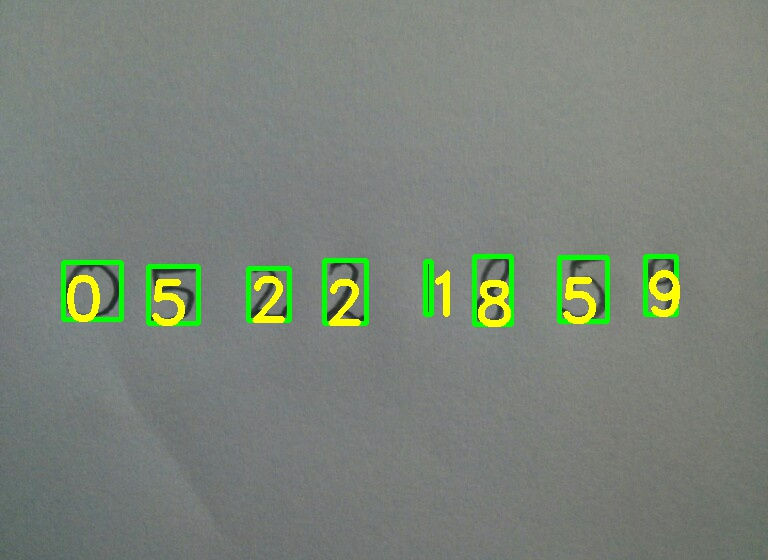
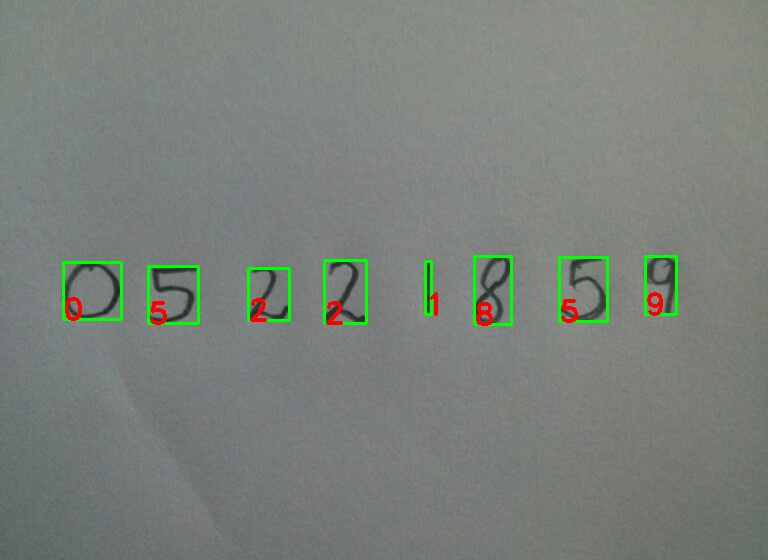
Further image processing

diff --git a/ImageProcessing/src/parsers.py b/ImageProcessing/src/parsers.py
@@ -30,6 +30,11 @@ class ImageParser(object):
 	def _getGrayscale(self):
 		""" Convert to grayscale and apply Gaussian filtering """
 		grayImage = cv2.cvtColor(self.__image, cv2.COLOR_BGR2GRAY)
+
+		""" 
+			Could also open and close image to fill holes 
+			and remove small noise pixels
+		"""
 		return cv2.GaussianBlur(
 					src 	= grayImage, 
 					ksize 	= (5, 5), 
@@ -40,7 +45,7 @@ class ImageParser(object):
 		"""
 		static threshold works better when there are small lines that get 'missed'
 		but really the adaptiveThreshold is better
-
+		"""
 		ret_, imageThreshold = cv2.threshold(
 								grayscaleImage, 
 								90, 
@@ -57,6 +62,7 @@ class ImageParser(object):
 					thresholdType 	= cv2.THRESH_BINARY_INV,
 					blockSize 		= 5,
 					C 				= 7)
+		"""
 
 	def _getContours(self, imageThreshold):
 		# Find contours in the image
@@ -71,7 +77,7 @@ class ImageParser(object):
 		roi_hog_fd = hog(
 						roi, 
 						orientations	= 9, 
-						pixels_per_cell	= (14, 14), 
+						pixels_per_cell	= (7, 7), 
 						cells_per_block	= (1, 1), 
 						visualise		= False)
 		roi_hog_fd = self.__pp.transform(
@@ -79,6 +85,7 @@ class ImageParser(object):
 
 		return self.__classifier.predict(roi_hog_fd)[0]
 
+	## region of interest
 	def _getROI(self, x, y, width, height, imageThreshold):
 		# Make the rectangular region around the digit
 		length 	= int(height * 1.6)

diff --git a/ImageProcessing/src/main.py b/ImageProcessing/src/main.py
@@ -15,13 +15,14 @@ from parsers import ImageParser
 
 def main(argv):
 	trainedDigitsFile = "digits_cls.pkl"
-	#imageName = "digits1.jpg"
+	imageName = "digits1.jpg"
 	#imageName = "digits_table_filled.png"
-	imageName = "digits2.jpg"
+	#imageName = "digits2.jpg"
+	
 	inputImagePath = os.path.join("images/raw/", imageName)
 	outputImagePath = os.path.join("images/labeled/", imageName)
 	
-	#train(trainedDigitsFile)
+	train(trainedDigitsFile)
 	print("Finished training data")
 
 	parse(trainedDigitsFile, inputImagePath, outputImagePath)

diff --git a/ImageProcessing/src/datasets.py b/ImageProcessing/src/datasets.py
@@ -40,12 +40,12 @@ class MLDataset(object):
 			fd = hog(
 					feature.reshape((28, 28)), 
 					orientations	= 9, 
-					pixels_per_cell	= (14, 14), 
+					pixels_per_cell	= (7, 7), 
 					cells_per_block	= (1, 1), 
 					visualise		= False)
 			list_hog_fd.append(fd)
 
-		return np.array(list_hog_fd, 'float64')
+		return np.array(list_hog_fd, Datatypes.FLOAT64)
 
 	def _normalizeFeatures(self, hogFeatures):
 		# Normalize the features
